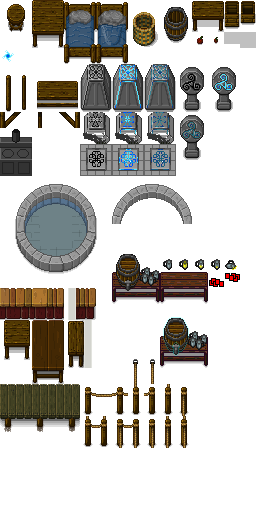
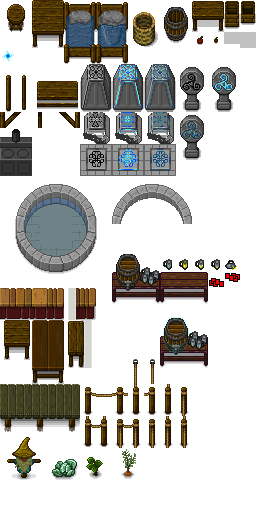
wip: garden: added some plants/veggies

diff --git a/js/worldGen.js b/js/worldGen.js
@@ -604,6 +604,24 @@ class WorldGen {
                     "0000","0000","0000","0X2i","0X2h","0000","0000","0000","0X2n","0X2o","0X3c","0X3d","0X3h","0000","0000","0000",
                     "0000","0000","0000","0000","0000","0000","0000","0X2n","0X2o","0X3c","0X3h","0000","0000","0000","0000","0000",
                 ],
+                fg: [
+                    "0000","0000","0000","0000","0000","0000","0000","0000","0000","0000","0000","0000","0000","0000","0000","0000",
+                    "0000","0000","0000","0000","0000","0000","0000","0000","0000","0000","0000","0000","0000","0000","0000","0000",
+                    "0000","0000","0000","0000","0000","0000","0000","0000","0000","0000","0000","0000","0000","0000","0000","0000",
+                    "0000","0000","0000","0000","0000","0000","0000","0000","0000","0000","0000","0000","0000","0003","0000","0000",
+                    "0000","0000","0000","0000","0000","0000","0000","0000","0000","0000","0000","0000","0000","0000","0000","0000",
+                    "0000","0000","0000","0000","0000","0000","0000","0000","0000","0000","0000","0000","0000","0000","0000","0000",
+                    "0000","0000","0000","0000","0000","0000","0000","0000","0000","0000","0000","0000","0000","0000","0000","0000",
+                    "0000","0000","0000","0000","0000","0000","0000","0000","0000","0000","0000","0000","0000","0000","0000","0000",
+                    "0000","0000","0000","0000","0000","0000","003a","003a","0000","0000","0000","0000","0000","0000","0000","0000",
+                    "0000","0000","0000","0000","0000","0000","0000","0000","0000","0039","0000","0000","0000","0000","0000","0000",
+                    "0000","003a","003a","0038","0000","0000","0000","003b","0000","0000","0000","0000","0000","0000","0000","0000",
+                    "0000","0000","0000","0000","0000","0000","0000","0000","0000","0000","0000","0000","0000","0000","0000","0000",
+                    "0000","0000","0039","0000","003b","003b","0000","0000","0000","0000","0000","0000","0000","0000","0000","0000",
+                    "0000","0000","0000","003a","0000","0000","0000","0000","0000","0000","0000","0000","0000","0000","0000","0000",
+                    "0000","0000","0000","0000","0000","0000","0000","0000","0000","0000","0000","0000","0000","0000","0000","0000",
+                    "0000","0000","0000","0000","0000","0000","0000","0000","0000","0000","0000","0000","0000","0000","0000","0000",
+                ],
             },
         },
     };

diff --git a/js/sparkAssets.js b/js/sparkAssets.js
@@ -476,6 +476,10 @@ class SparkAssets {
                 Templates.xsprite("rail.b.l",           9, 26, { width: 16*1, height: 16*2 }),
                 Templates.xsprite("rail.tb.l",          10, 26, { width: 16*1, height: 16*2 }),
                 Templates.xsprite("rail.tb.r",          11, 26, { width: 16*1, height: 16*2 }),
+                Templates.xsprite("scarecrow",          0, 27, { width: 16*3, height: 16*3 }),
+                Templates.xsprite("plant.cabbage",      3, 28, { width: 16*2, height: 16*2 }),
+                Templates.xsprite("plant.potato",       5, 28, { width: 16*2, height: 16*2 }),
+                Templates.xsprite("plant.carrot",       7, 28, { width: 16*2, height: 16*2 }),
             ]},
 
             { src: "img/tower.png", loader: "Sheet", refs: [
@@ -1101,6 +1105,10 @@ class SparkAssets {
             Templates.tile("035", "gardenRow"),
             Templates.tile("036", "gardenRow.r"),
             Templates.tile("037", "gardenRow.l"),
+            Templates.tile("038", "scarecrow",          {offx: 16, offy: -16, xcollider: {width: 16, height: 16, offy: 16}}),
+            Templates.tile("039", "plant.cabbage",      {offx: 8, offy: -8}),
+            Templates.tile("03a", "plant.potato",       {offx: 8, offy: -8}),
+            Templates.tile("03b", "plant.carrot",       {offx: 8, offy: -8}),
 
             // ------------------------------------------------------------------------------
 
